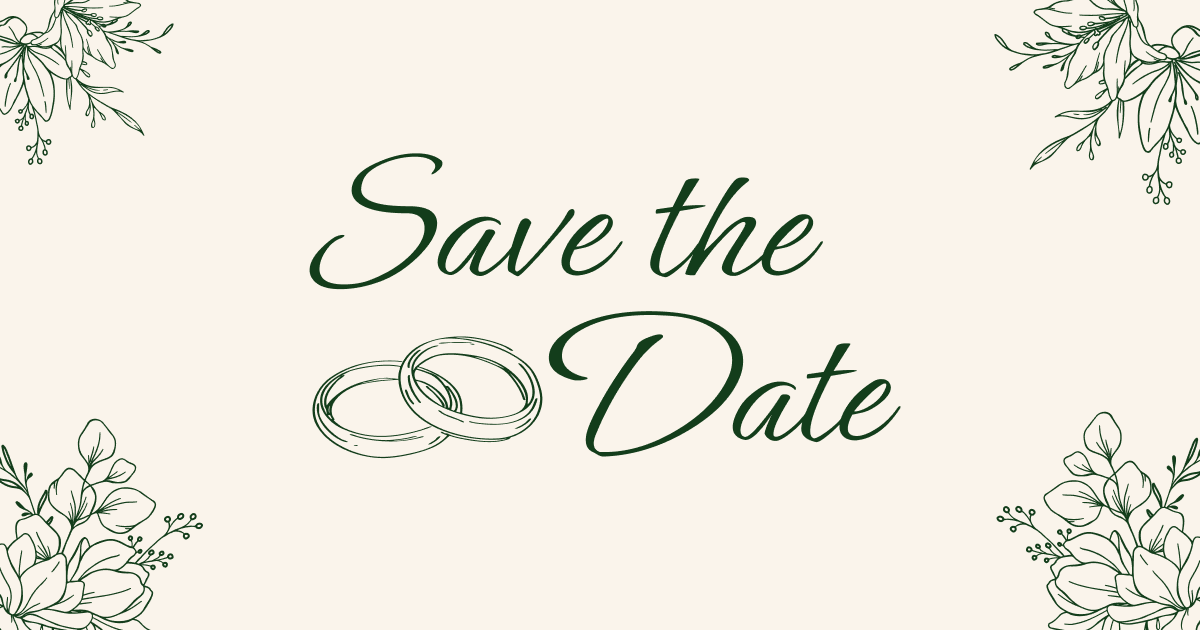
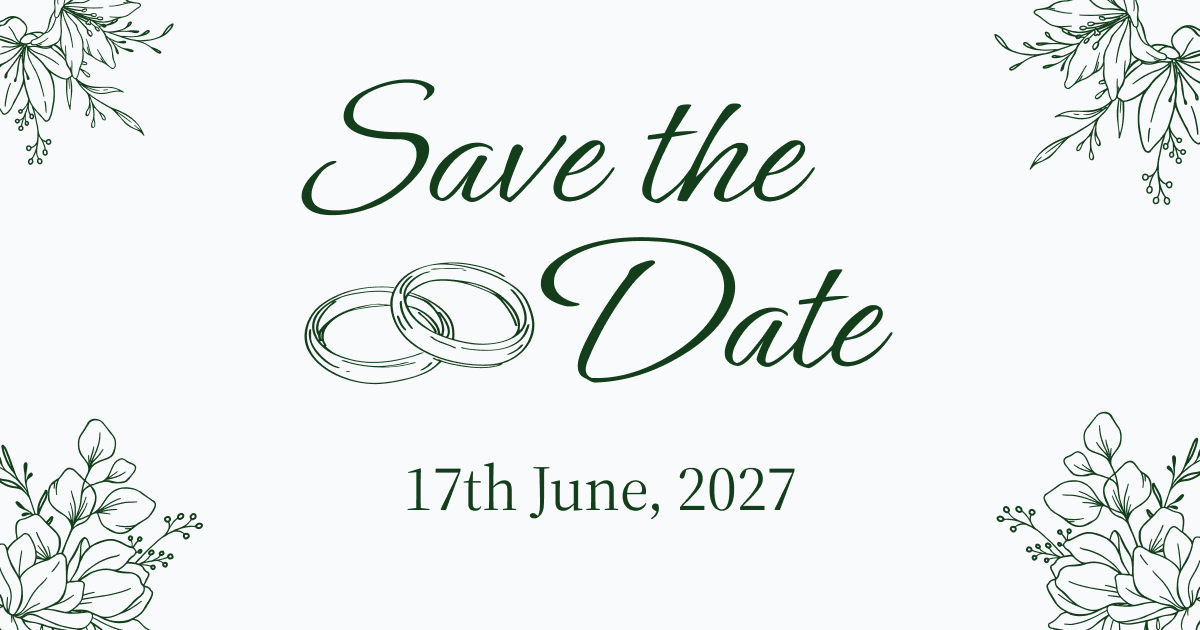
update theme light colours

Changed region(s): [[0.2467, 0.1508, 0.74, 0.8143], [0.3083, 0.1206, 0.37, 0.1508], [0.2775, 0.1508, 0.3083, 0.2111]]

diff --git a/src/styles/theme.css b/src/styles/theme.css
@@ -23,11 +23,11 @@
 }
 
 :where(html) {
-	--surface-light: var(--brown-0);
+	--surface-light: var(--stone-0);
 	--surface-dark: var(--sand-12);
 
 	--text-light: var(--green-12);
-	--text-dark: var(--green-0);
+	--text-dark: var(--stone-0);
 }
 
 :root {
